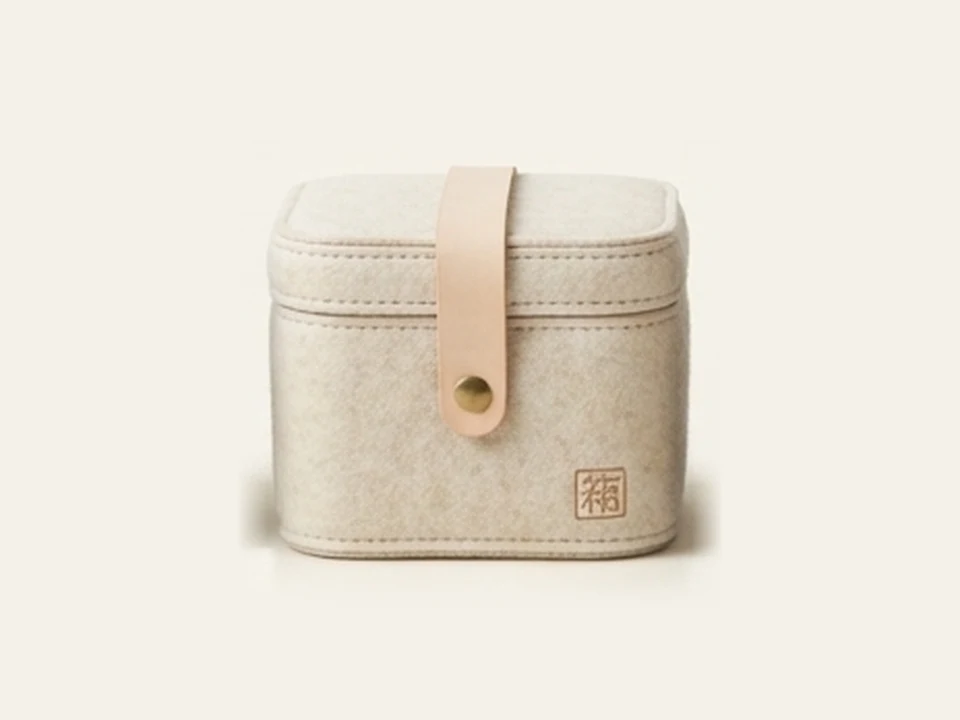
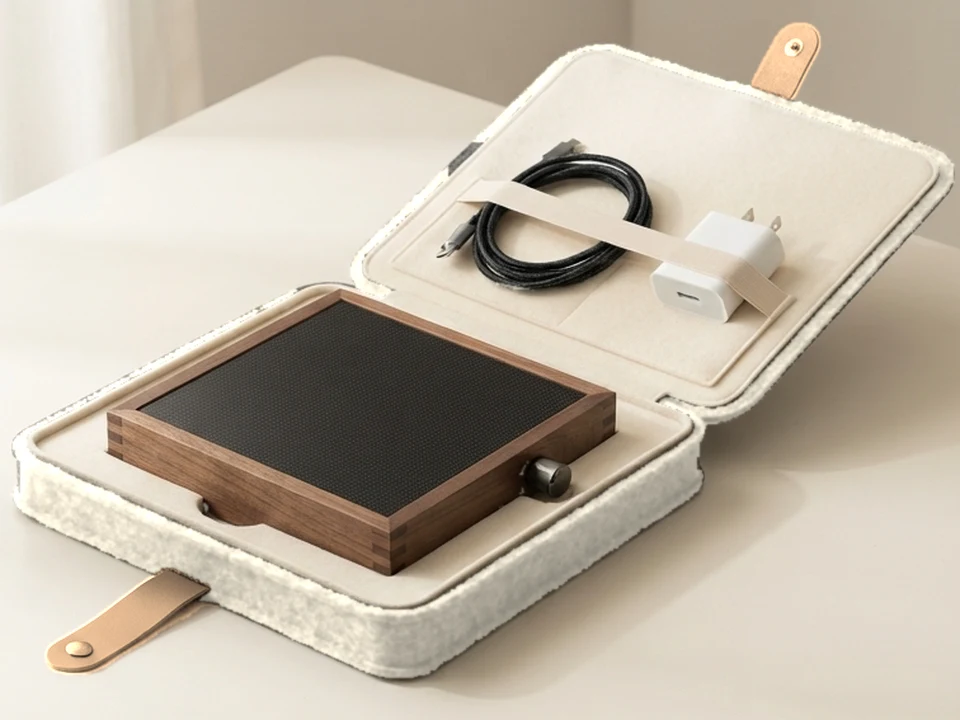
Site: hako case shown open with the real hako shape inside
New render: the flat clamshell case with hako (the 22 x 22 x 6 cm slab,
box joints, screen off, knob on the side) in its recess and the cable
and adapter in the lid. The four colourways are recoloured from that one
shot so the dots compare like for like. Product images no longer shrink
below 4:3 when cards in a row stretch.

Claude-Session: https://claude.ai/code/session_01MjtzJyNk46ibxxTb3dZ6aj

diff --git a/ja/index.html b/ja/index.html
@@ -36,7 +36,7 @@
   <link rel="preconnect" href="https://fonts.gstatic.com" crossorigin>
   <link href="https://fonts.googleapis.com/css2?family=Shippori+Mincho:wght@400;500;600;700;800&family=IBM+Plex+Sans:wght@300;400;500;600&display=swap" rel="stylesheet" />
 
-  <link rel="stylesheet" href="../style.css?v=202610201653" />
+  <link rel="stylesheet" href="../style.css?v=202610201725" />
 
   <!-- First visit from a Japanese or German browser: go to that page, unless
        the visitor already picked a language with the switcher. -->
@@ -618,11 +618,11 @@
         </article>
 
         <article class="product reveal">
-          <div class="product-media is-render is-swatched">
-            <img class="is-on" src="../assets/images/shop/case-sumi.webp" alt="コニャック色の革ベルトが付いたチャコールのフェルト製hakoケースのコンセプト画像" width="960" height="720" loading="lazy" data-swatch="sumi" />
-            <img src="../assets/images/shop/case-kinari.webp" alt="明るい革ベルトが付いた生成りのフェルト製hakoケースのコンセプト画像" width="960" height="720" loading="lazy" data-swatch="kinari" />
-            <img src="../assets/images/shop/case-ai.webp" alt="こげ茶の革ベルトが付いた藍色のフェルト製hakoケースのコンセプト画像" width="960" height="720" loading="lazy" data-swatch="ai" />
-            <img src="../assets/images/shop/case-matcha.webp" alt="タンの革ベルトが付いたモスグリーンのフェルト製hakoケースのコンセプト画像" width="960" height="720" loading="lazy" data-swatch="matcha" />
+          <div class="product-media is-swatched">
+            <img class="is-on" src="../assets/images/shop/case-sumi.webp" alt="コニャック色の革ベルトが付いたチャコールのフェルト製hakoケース(hakoを入れて開いた状態)のコンセプト画像" width="960" height="720" loading="lazy" data-swatch="sumi" />
+            <img src="../assets/images/shop/case-kinari.webp" alt="明るい革ベルトが付いた生成りのフェルト製hakoケース(hakoを入れて開いた状態)のコンセプト画像" width="960" height="720" loading="lazy" data-swatch="kinari" />
+            <img src="../assets/images/shop/case-ai.webp" alt="こげ茶の革ベルトが付いた藍色のフェルト製hakoケース(hakoを入れて開いた状態)のコンセプト画像" width="960" height="720" loading="lazy" data-swatch="ai" />
+            <img src="../assets/images/shop/case-matcha.webp" alt="タンの革ベルトが付いたモスグリーンのフェルト製hakoケース(hakoを入れて開いた状態)のコンセプト画像" width="960" height="720" loading="lazy" data-swatch="matcha" />
             <span class="proto-tag">コンセプト画像</span>
           </div>
           <div class="product-body">
@@ -1130,7 +1130,7 @@
     </div>
   </footer>
 
-  <script src="../script.js?v=202610201653"></script>
+  <script src="../script.js?v=202610201725"></script>
   <script src="../assets/demo.js" defer></script>
 </body>
 </html>

diff --git a/de/index.html b/de/index.html
@@ -36,7 +36,7 @@
   <link rel="preconnect" href="https://fonts.gstatic.com" crossorigin>
   <link href="https://fonts.googleapis.com/css2?family=Shippori+Mincho:wght@400;500;600;700;800&family=IBM+Plex+Sans:wght@300;400;500;600&display=swap" rel="stylesheet" />
 
-  <link rel="stylesheet" href="../style.css?v=202610201653" />
+  <link rel="stylesheet" href="../style.css?v=202610201725" />
 
   <!-- First visit from a Japanese or German browser: go to that page, unless
        the visitor already picked a language with the switcher. -->
@@ -618,11 +618,11 @@
         </article>
 
         <article class="product reveal">
-          <div class="product-media is-render is-swatched">
-            <img class="is-on" src="../assets/images/shop/case-sumi.webp" alt="Konzept-Rendering einer anthrazitfarbenen Filztasche für hako mit cognacfarbenem Lederriemen" width="960" height="720" loading="lazy" data-swatch="sumi" />
-            <img src="../assets/images/shop/case-kinari.webp" alt="Konzept-Rendering einer naturbelassenen Filztasche für hako mit hellem Lederriemen" width="960" height="720" loading="lazy" data-swatch="kinari" />
-            <img src="../assets/images/shop/case-ai.webp" alt="Konzept-Rendering einer indigoblauen Filztasche für hako mit dunkelbraunem Lederriemen" width="960" height="720" loading="lazy" data-swatch="ai" />
-            <img src="../assets/images/shop/case-matcha.webp" alt="Konzept-Rendering einer moosgrünen Filztasche für hako mit hellbraunem Lederriemen" width="960" height="720" loading="lazy" data-swatch="matcha" />
+          <div class="product-media is-swatched">
+            <img class="is-on" src="../assets/images/shop/case-sumi.webp" alt="Konzept-Rendering (geöffnet, mit hako darin) einer anthrazitfarbenen Filztasche für hako mit cognacfarbenem Lederriemen" width="960" height="720" loading="lazy" data-swatch="sumi" />
+            <img src="../assets/images/shop/case-kinari.webp" alt="Konzept-Rendering (geöffnet, mit hako darin) einer naturbelassenen Filztasche für hako mit hellem Lederriemen" width="960" height="720" loading="lazy" data-swatch="kinari" />
+            <img src="../assets/images/shop/case-ai.webp" alt="Konzept-Rendering (geöffnet, mit hako darin) einer indigoblauen Filztasche für hako mit dunkelbraunem Lederriemen" width="960" height="720" loading="lazy" data-swatch="ai" />
+            <img src="../assets/images/shop/case-matcha.webp" alt="Konzept-Rendering (geöffnet, mit hako darin) einer moosgrünen Filztasche für hako mit hellbraunem Lederriemen" width="960" height="720" loading="lazy" data-swatch="matcha" />
             <span class="proto-tag">Konzept-Rendering</span>
           </div>
           <div class="product-body">
@@ -1130,7 +1130,7 @@
     </div>
   </footer>
 
-  <script src="../script.js?v=202610201653"></script>
+  <script src="../script.js?v=202610201725"></script>
   <script src="../assets/demo.js" defer></script>
 </body>
 </html>

diff --git a/index.html b/index.html
@@ -35,7 +35,7 @@
   <link rel="preconnect" href="https://fonts.gstatic.com" crossorigin>
   <link href="https://fonts.googleapis.com/css2?family=Shippori+Mincho:wght@400;500;600;700;800&family=IBM+Plex+Sans:wght@300;400;500;600&display=swap" rel="stylesheet" />
 
-  <link rel="stylesheet" href="style.css?v=202610201653" />
+  <link rel="stylesheet" href="style.css?v=202610201725" />
 
   <!-- First visit from a Japanese or German browser: go to that page, unless
        the visitor already picked a language with the switcher. -->
@@ -597,11 +597,11 @@
         </article>
 
         <article class="product reveal">
-          <div class="product-media is-render is-swatched">
-            <img class="is-on" src="assets/images/shop/case-sumi.webp" alt="Concept render of a charcoal felt hako case with a cognac leather strap" width="960" height="720" loading="lazy" data-swatch="sumi" />
-            <img src="assets/images/shop/case-kinari.webp" alt="Concept render of a natural undyed felt hako case with a light leather strap" width="960" height="720" loading="lazy" data-swatch="kinari" />
-            <img src="assets/images/shop/case-ai.webp" alt="Concept render of an indigo felt hako case with a dark brown leather strap" width="960" height="720" loading="lazy" data-swatch="ai" />
-            <img src="assets/images/shop/case-matcha.webp" alt="Concept render of a moss green felt hako case with a tan leather strap" width="960" height="720" loading="lazy" data-swatch="matcha" />
+          <div class="product-media is-swatched">
+            <img class="is-on" src="assets/images/shop/case-sumi.webp" alt="Concept render of the hako case, open with hako inside: a charcoal felt case with a cognac leather strap" width="960" height="720" loading="lazy" data-swatch="sumi" />
+            <img src="assets/images/shop/case-kinari.webp" alt="Concept render of the hako case, open with hako inside: a natural undyed felt case with a light leather strap" width="960" height="720" loading="lazy" data-swatch="kinari" />
+            <img src="assets/images/shop/case-ai.webp" alt="Concept render of the hako case, open with hako inside: an indigo felt case with a dark brown leather strap" width="960" height="720" loading="lazy" data-swatch="ai" />
+            <img src="assets/images/shop/case-matcha.webp" alt="Concept render of the hako case, open with hako inside: a moss green felt case with a tan leather strap" width="960" height="720" loading="lazy" data-swatch="matcha" />
             <span class="proto-tag">Concept render</span>
           </div>
           <div class="product-body">
@@ -1116,7 +1116,7 @@
     </div>
   </footer>
 
-  <script src="script.js?v=202610201653"></script>
+  <script src="script.js?v=202610201725"></script>
   <script src="assets/demo.js" defer></script>
 </body>
 </html>

diff --git a/style.css b/style.css
@@ -3222,6 +3222,7 @@ body.gate-locked { overflow: hidden; }
 .product-media {
   position: relative;
   display: block;
+  flex-shrink: 0;                 /* keep 4:3 when the cards in a row stretch */
   aspect-ratio: 4 / 3;
   overflow: hidden;
   background: #0d0b09;
